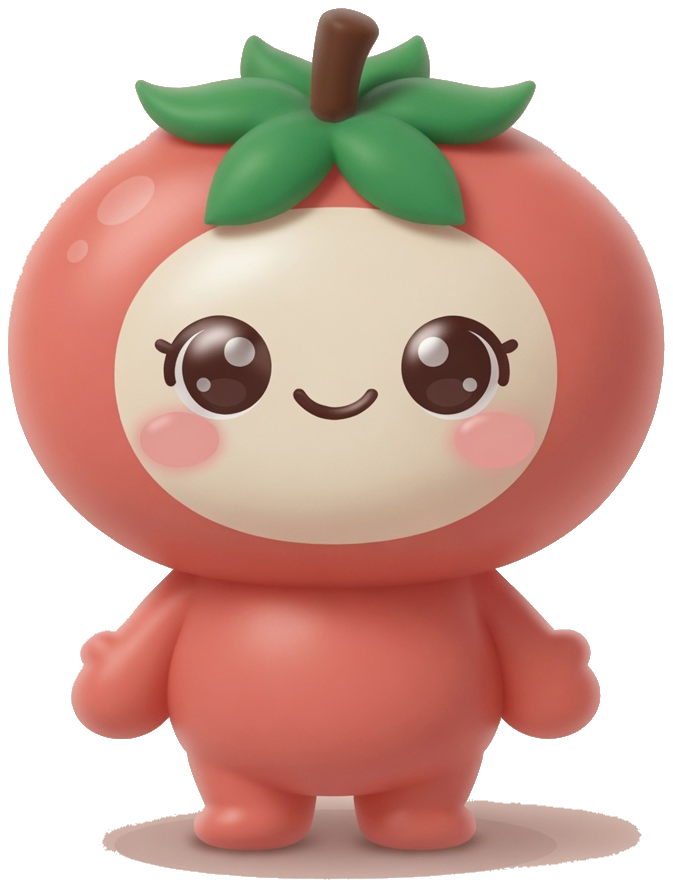
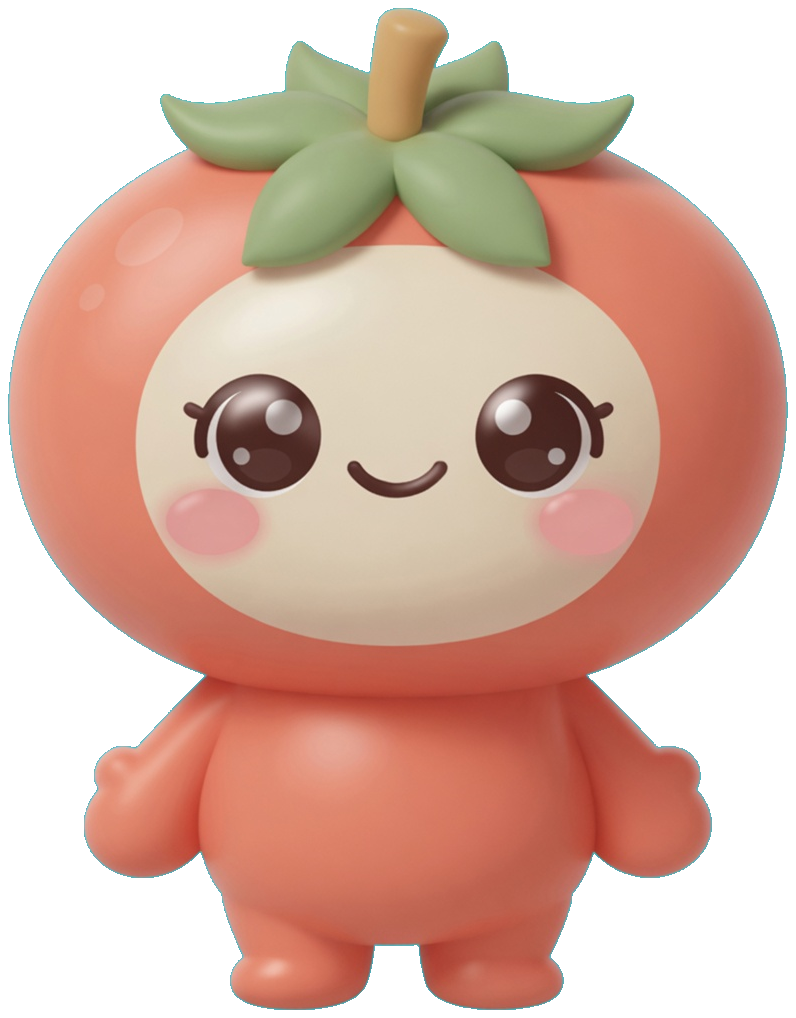
Warm the practice page and recolor O-ma-oo in pastel.

diff --git a/index.html b/index.html
@@ -615,7 +615,7 @@
     --well: #fff; --soon-bg: var(--gp); --dot: var(--gs); --dot-done: var(--coral);
     --shadow: 0 12px 30px rgba(74, 74, 82, 0.08);
   }
-  body { background: #fbf3ea; overflow: hidden; }
+  body { background: #f4e3d4; overflow: hidden; }
   .wrap { width: auto; max-width: none; margin: 0; padding: 0; }
   .bk-1 { --bk: #f6cfc5; --bkd: #e58a74; } .bk-2 { --bk: #dedce1; --bkd: #9a98a2; } .bk-3 { --bk: #fbe0d8; --bkd: #eba08c; }
   .bk-4 { --bk: #ebe9ed; --bkd: #b0aeb7; } .bk-5 { --bk: #f3bfb2; --bkd: #d9755d; } .bk-6 { --bk: #d3d1d7; --bkd: #8d8b94; }
@@ -679,7 +679,8 @@
   .fit .sheet .well { min-height: 58px; }
   .fit .sheet .answer-input { font-size: 1.1rem; min-height: 52px; }
   .fit .sheet .btn { min-height: 46px; }
-  .fit .vchips { position: absolute; left: 10px; right: 10px; bottom: calc(100% + 6px); margin: 0; background: #fff; border-radius: 22px; padding: 10px; box-shadow: 0 10px 30px rgba(74, 74, 82, 0.2); z-index: 5; max-height: 40vh; overflow: auto; }
+  .fit .vwrap { display: contents; }
+  .fit .vchips { position: static; flex: 1 1 100%; width: 100%; margin: 8px 0 0; background: #fff; border-radius: 22px; padding: 12px 14px; box-shadow: 0 8px 22px rgba(74, 74, 82, 0.08); max-height: none; overflow: visible; }
   .fit .tabbar { flex: none; margin-top: 4px; padding-top: 2px; }
   .fit .center-col { flex: 1 1 0; min-height: 0; overflow-y: auto; display: flex; flex-direction: column; justify-content: flex-start; max-width: none; width: 100%; padding: 0; }
   .fit .center-col > .card:not(.test-card) { background: transparent; border: 0; box-shadow: none; width: 100%; max-width: none; margin: 0; padding: 4px 2px 12px; }
@@ -730,6 +731,7 @@
     .fit .center-col { grid-column: 1 / -1; grid-row: 2 / 4; }
     .fit .sheet > .qline, .fit .sheet > .chips, .fit .sheet > .well, .fit .sheet > .bank, .fit .sheet > .fb, .fit .sheet > .hint-box { flex: 1 1 100%; }
     .fit .sheet > .answer-input { flex: 1 1 360px; font-size: 1.35rem; min-height: 64px; }
+    .fit .sheet > .answer-input.good { flex: 1 1 100%; }
     .fit .sheet > .btn-row { flex: 0 0 auto; }
     .fit .sheet .btn-row .btn { flex: none; width: auto; padding: 0 28px; min-height: 56px; }
     .fit .sheet > #feedback { flex: 0 0 auto; }
@@ -755,14 +757,94 @@
     .fit { --charH: clamp(160px, 30dvh, 260px); padding: 12px 22px 10px; }
     .fit .say { font-size: 1.55rem; }
   }
-  .phone.fit:not(.landing):not(.topics) { background: transparent; box-shadow: none; border-radius: 0; }
+  .phone.fit { background: #fff8f3; box-shadow: 0 18px 40px rgba(140, 96, 70, 0.1); }
   .phone.fit:not(.landing) .sheet { background: transparent; border-radius: 0; box-shadow: none; }
+  .fit.landing .sheet { background: transparent; }
+  .btn:not(.btn-ghost), .sheet .btn, .fit .test-card .btn { background: var(--coral); color: #fff; box-shadow: 0 4px 0 #c45a42; }
+  .btn:not(.btn-ghost):hover, .sheet .btn:hover { background: #d97862; }
+  .tile { background: #fff; box-shadow: var(--shadow); border-radius: 28px; }
+  .ticon { background: var(--bk); }
+  .tile-test { background: var(--coral-soft); }
+  .tmeta { color: var(--gm); font-weight: 600; opacity: 1; }
+  .fit:not(.landing) .say { font-weight: 600; color: var(--gm); }
+  .fit.landing .say.big { font-size: clamp(1.35rem, 5vw, 1.8rem); font-weight: 700; color: #5c4338; }
+  .fit.landing { justify-content: center; }
+  .fit.landing .stage { flex: 0 1 auto; display: flex; flex-direction: column; align-items: center; justify-content: center; }
+  .fit .qline .ask, .fit .qbig .ask { font-size: 1.45rem; font-weight: 800; color: var(--gk); line-height: 1.25; }
+  .fit:not(.landing) .say { font-size: 1rem; }
+  .fit .qline .vi, .fit .qbig .vi { color: var(--gm); font-weight: 500; }
+  .fit .sheet .qline { justify-content: flex-start; text-align: left; }
   .phone.fit:not(.landing) .sheet .qline { background: transparent; border-radius: 0; padding: 0 0 2px; }
   .fit .qrow, .fit .qrow.done { background: transparent; border: 0; border-bottom: 1px solid var(--gs); border-radius: 0; box-shadow: none; }
   .fit .qrow:hover { background: rgba(255, 255, 255, 0.5); }
   .fit .qlist .qrow:last-child { border-bottom: 0; }
   .fit .test-card { background: transparent; border-radius: 0; padding: 4px 0 0; }
   .fit .qbig { background: transparent; border-radius: 0; padding: 4px 0 14px; margin-bottom: 0; }
+  .fit .chips, .fit .bank, .fit .well { flex-wrap: nowrap; overflow-x: auto; justify-content: flex-start; }
+  .fit .chip-wrap { flex: 0 0 auto; max-width: none; align-items: flex-start; }
+  .fit .chip, .fit .word { flex: 0 0 auto; white-space: nowrap; }
+  .fit .chip { border-radius: 999px; }
+  .fit .chip.fixed { background: #ececee; color: #3a3a42; }
+  .fit .chip.blank { background: #fde8df; color: #b4503a; border: 0; }
+  .sheet .btn[data-action="check-write"] { background: var(--coral); color: #fff; box-shadow: 0 4px 0 #c45a42; }
+  @media (min-width: 900px) {
+    .fit:not(.landing):has(.stage) { height: auto; max-height: calc(100dvh - 48px); top: 50%; transform: translate(-50%, -50%); overflow: auto; grid-template-rows: auto auto auto; align-content: start; row-gap: 16px; padding: 20px 32px 24px; --charH: 200px; }
+    .fit:not(.landing) .stage { display: contents; }
+    .fit:not(.landing) .stage .speech { grid-column: 1 / 5; grid-row: 2; max-width: none; align-self: end; padding: 0 28px 0 0; }
+    .fit:not(.landing) .stage .char { grid-column: 5; grid-row: 2 / 4; height: 240px; align-self: center; justify-self: end; }
+    .fit:not(.landing) .sheet { grid-column: 1 / 5; grid-row: 3; max-width: none; justify-self: stretch; align-self: start; padding: 0 28px 0 0; gap: 12px; }
+    .fit:not(.landing):has(.stage) .sheet > .btn-row:only-child,
+    .fit:not(.landing):has(.stage) .sheet.step-2 > .btn-row { justify-content: flex-start; }
+    .fit .say { font-size: 1.05rem; font-weight: 600; color: var(--gm); margin-top: 0; }
+    .fit .stage .qline .ask, .fit .sheet .qline .ask, .fit .qbig .ask { font-size: 2.15rem; line-height: 1.25; }
+    .fit .qline .vi, .fit .qbig .vi { font-size: 0.95rem; }
+    .fit .stage .ex-en { font-size: 1.35rem; }
+    .fit.landing { display: flex; flex-direction: column; align-items: center; justify-content: center; --charH: 220px; }
+    .fit.landing .stage { display: flex; flex-direction: column; align-items: center; flex: 0 0 auto; width: min(640px, 100%); min-height: 0; }
+    .fit.landing .stage .speech { padding: 0; text-align: center; }
+    .fit.landing .stage .char { height: 220px; align-self: center; }
+    .fit.landing .sheet { width: min(640px, 100%); }
+    .fit.landing .say.big { font-size: 2rem; font-weight: 700; color: #5c4338; }
+    .ttitle { font-size: 1.35rem; }
+    .tmeta { font-size: 0.8rem; }
+  }
+  .phone.fit.topics { background: #fff7f3; }
+  .topics .tile { min-height: 112px; box-shadow: 0 8px 18px rgba(120, 90, 78, 0.07); }
+  .topics .tile.tone-peach { background: #fde8df; }
+  .topics .tile.tone-pink { background: #f8e4ea; }
+  .topics .tile.tone-gray { background: #f1eeea; }
+  .topics .tile-main { padding: 14px 16px 16px; }
+  .topics .tile-main:hover { transform: none; }
+  .topics .tile:hover { transform: translateY(-2px); }
+  .topics .ticon { width: 40px; height: 40px; border-radius: 50%; background: rgba(255, 255, 255, 0.82); }
+  .topics .ticon svg { width: 26px; height: 26px; }
+  .topics .ttitle { color: #3a3538; font-weight: 800; padding-right: 8px; }
+  .topics .tmeta { top: 16px; right: 52px; color: #8a7f86; font-weight: 700; }
+  .topics .tile-test { top: 10px; right: 10px; bottom: auto; background: rgba(255, 255, 255, 0.9); }
+  .fit:not(.landing):has(.stage) { background: #fff8f3; box-shadow: 0 18px 40px rgba(140, 96, 70, 0.12); }
+  .fit:not(.landing):has(.stage) .say { display: flex; align-items: center; gap: 10px; color: #8d756c; font-weight: 600; }
+  .fit:not(.landing):has(.stage) .say::before { content: ""; width: 10px; height: 10px; border-radius: 50%; background: var(--coral); flex: none; }
+  .fit:not(.landing):has(.stage) .qline { flex-direction: column; align-items: flex-start; gap: 4px; }
+  .fit:not(.landing):has(.stage) .ask,
+  .fit:not(.landing):has(.stage) .ex-en { color: #5c4338; }
+  .fit:not(.landing):has(.stage) .vi { color: #b6a096; }
+  .fit:not(.landing):has(.stage) .chip.fixed { background: #f6e4d6; color: #6a5148; }
+  .fit:not(.landing):has(.stage) .chip.blank { background: #fff; color: #c46b56; box-shadow: inset 0 0 0 1.5px #f3c7b8; }
+  .fit:not(.landing):has(.stage) .answer-input { background: #fff; border: 1.5px solid #f0d0c4; color: #5c4338; }
+  .fit:not(.landing):has(.stage) .well { background: rgba(255, 255, 255, 0.7); border-color: #f0c2b4; }
+  .fit:not(.landing):has(.stage) .vtoggle { flex: 1 1 100%; justify-content: flex-start; text-align: left; color: var(--coral-ink); font-weight: 700; background: transparent; padding: 2px 0 0; }
+  .fit:not(.landing):has(.stage) .steps .st { background: #f6ebe4; color: #8a736a; }
+  .fit:not(.landing):has(.stage) .steps .st.now { background: var(--coral); color: #fff; box-shadow: none; }
+  .fit:not(.landing):has(.stage) .steps .st.done { background: #f3ddd4; color: #b4503a; }
+  .fit:not(.landing):has(.stage) .qnums { background: #f6ebe4; border-color: transparent; }
+  .fit:not(.landing):has(.stage) .qn.now { background: var(--coral); color: #fff; box-shadow: none; }
+  .fit:not(.landing):has(.stage) .btn-ghost { background: #fff8f3; border-color: #f0ddd4; color: #8a736a; }
+  .fit:not(.landing):has(.stage) .tab { background: #fff; color: #8a736a; }
+  .fit:not(.landing):has(.stage) .tab.on { background: #fde8df; color: var(--coral-ink); }
+  @media (min-width: 900px) {
+    .fit:not(.landing):has(.stage) .ask { font-size: 2.55rem; }
+    .fit:not(.landing):has(.stage) .ex-en { font-size: 1.55rem; color: #5c4338; }
+  }
 </style>
 </head>
 <body>
@@ -2202,19 +2284,8 @@ function dotsHtml(lesson, index) {
   return html + "</div>";
 }
 
-var TOPIC_ICONS = {
-  1: '<svg viewBox="0 0 32 32" fill="none" stroke="#3a3a42" stroke-width="1.8" stroke-linecap="round" stroke-linejoin="round" aria-hidden="true"><rect x="6" y="7" width="20" height="18" rx="4" fill="#fff"/><circle cx="12.5" cy="14" r="2.6" fill="#e58a74"/><path d="M9.5 21c.6-2 2.2-3 3-3s2.4 1 3 3"/><path d="M18.5 13.5h4M18.5 17h4"/></svg>',
-  2: '<svg viewBox="0 0 32 32" fill="none" stroke="#3a3a42" stroke-width="1.8" stroke-linecap="round" stroke-linejoin="round" aria-hidden="true"><path d="M5 15.5L16 6l11 9.5"/><path d="M8 13.5V26h16V13.5" fill="#fff"/><rect x="13.5" y="18" width="5" height="8" rx="1" fill="#e58a74"/></svg>',
-  3: '<svg viewBox="0 0 32 32" fill="none" stroke="#3a3a42" stroke-width="1.8" stroke-linecap="round" stroke-linejoin="round" aria-hidden="true"><circle cx="12" cy="11" r="3.4" fill="#fff"/><path d="M5.5 24c.4-4.2 3-6.4 6.5-6.4s6.1 2.2 6.5 6.4z" fill="#fff"/><circle cx="22.5" cy="15" r="2.6" fill="#e58a74"/><path d="M18.5 24c.3-3.2 2-4.9 4-4.9s3.7 1.7 4 4.9z" fill="#e58a74"/></svg>',
-  4: '<svg viewBox="0 0 32 32" fill="none" stroke="#3a3a42" stroke-width="1.8" stroke-linecap="round" stroke-linejoin="round" aria-hidden="true"><path d="M16 26s-8.2-5-10.6-9C3.2 13.2 4.4 9 8.2 8.2c2.5-.5 4.8.8 6 2.6 1.2-1.8 3.5-3.1 6-2.6 3.8.8 5 5 2.8 8.8C24.2 21 16 26 16 26z" fill="#e58a74"/></svg>',
-  5: '<svg viewBox="0 0 32 32" fill="none" stroke="#3a3a42" stroke-width="1.8" stroke-linecap="round" stroke-linejoin="round" aria-hidden="true"><circle cx="16" cy="16" r="5" fill="#e58a74"/><path d="M16 5v3M16 24v3M5 16h3M24 16h3M8.2 8.2l2.1 2.1M21.7 21.7l2.1 2.1M23.8 8.2l-2.1 2.1M10.3 21.7l-2.1 2.1"/></svg>',
-  6: '<svg viewBox="0 0 32 32" fill="none" stroke="#3a3a42" stroke-width="1.8" stroke-linecap="round" stroke-linejoin="round" aria-hidden="true"><circle cx="16" cy="16" r="10" fill="#fff"/><path d="M16 9v8l5 3" stroke="#e58a74"/></svg>',
-  7: '<svg viewBox="0 0 32 32" fill="none" stroke="#3a3a42" stroke-width="1.8" stroke-linecap="round" stroke-linejoin="round" aria-hidden="true"><path d="M5 18h22v5H5z" fill="#fff"/><path d="M8 18v-3a3 3 0 013-3h6v6" fill="#e58a74"/><path d="M7 23v3M25 23v3"/></svg>',
-  8: '<svg viewBox="0 0 32 32" fill="none" stroke="#3a3a42" stroke-width="1.8" stroke-linecap="round" stroke-linejoin="round" aria-hidden="true"><path d="M16 5l2.6 6.2L25 12l-5 4.4L21.4 23 16 19.8 10.6 23 12 16.4 7 12l6.4-.8z" fill="#e58a74"/></svg>',
-  9: '<svg viewBox="0 0 32 32" fill="none" stroke="#3a3a42" stroke-width="1.8" stroke-linecap="round" stroke-linejoin="round" aria-hidden="true"><rect x="6" y="8" width="20" height="18" rx="4" fill="#fff"/><path d="M6 14h20M12 5v5M20 5v5"/><path d="M12 20l3 3 5-6" stroke="#e58a74" stroke-width="2.2"/></svg>',
-  10: '<svg viewBox="0 0 32 32" fill="none" stroke="#3a3a42" stroke-width="1.8" stroke-linecap="round" stroke-linejoin="round" aria-hidden="true"><path d="M6 22h20"/><path d="M8 22a8 8 0 0116 0" fill="#e58a74"/><path d="M16 6v4M8.5 11l2.2 2.2M23.5 11l-2.2 2.2"/></svg>'
-};
 var CHAR_SVG = '<img class="char" src="char.png" alt="" aria-hidden="true">';
+var TOMATO_ICON = '<svg viewBox="0 0 32 32" aria-hidden="true"><path d="M16.2 7.2c.3-2.2 1.6-3.4 3-3.6" fill="none" stroke="#d7b48a" stroke-width="1.7" stroke-linecap="round"/><path d="M15.6 8.4c-2.6-2.2-5.6-1-6.4 1.2 2 .1 3.6 1.3 4.6 2.8.8-1.8 2.4-3 4.6-3.2-1-.6-2-1-2.8-.8z" fill="#c5ddb2"/><path d="M18.2 8.2c2.4-.6 4.8.6 5.2 2.6-2.2.4-3.8 1.6-4.8 3.2-1-1.8-2.2-3-4.2-3.6 1.2-1 2.4-1.8 3.8-2.2z" fill="#d5e8c4"/><ellipse cx="16" cy="19.2" rx="9.2" ry="8.2" fill="#f3b7a2"/><ellipse cx="12.4" cy="16.4" rx="2.3" ry="1.4" fill="#fff" opacity=".7"/></svg>';
 var ICON_BOOK = '<svg viewBox="0 0 24 24" fill="none" stroke="currentColor" stroke-width="2" stroke-linecap="round" stroke-linejoin="round" aria-hidden="true"><path d="M5 4h10a3 3 0 0 1 3 3v13H8a3 3 0 0 1-3-3z"/><path d="M5 17a3 3 0 0 1 3-3h10"/></svg>';
 var ICON_CARD = '<svg viewBox="0 0 24 24" fill="none" stroke="currentColor" stroke-width="2" stroke-linecap="round" stroke-linejoin="round" aria-hidden="true"><rect x="4" y="5" width="16" height="14" rx="3"/><path d="M8 10h8M8 14h5"/></svg>';
 
@@ -2226,12 +2297,13 @@ function renderHome() {
 }
 
 function renderTopics() {
+  var tones = ["tone-peach", "tone-pink", "tone-gray"];
   var html = '<div class="phone fit topics"><div class="topbar slim"><button type="button" class="btn btn-ghost back" data-action="welcome" aria-label="Về trang đầu">←</button>';
   html += '<span class="crumb">Chọn chủ đề</span></div><div class="tgrid">';
   for (var i = 0; i < LESSONS.length; i++) {
     var lesson = LESSONS[i];
-    html += '<div class="tile ' + bookClass(lesson) + '"><button type="button" class="tile-main" data-action="learn" data-lesson="' + lesson.id + '">';
-    html += '<span class="ticon">' + (TOPIC_ICONS[lesson.id] || "") + "</span>";
+    html += '<div class="tile ' + bookClass(lesson) + " " + tones[i % 3] + '"><button type="button" class="tile-main" data-action="learn" data-lesson="' + lesson.id + '">';
+    html += '<span class="ticon">' + TOMATO_ICON + "</span>";
     html += '<span class="ttitle">' + esc(lesson.title) + "</span></button>";
     html += '<span class="tmeta">' + masteredCount(lesson) + "/" + lesson.questions.length + "</span>";
     html += '<button type="button" class="tile-test" data-action="test" data-lesson="' + lesson.id + '" aria-label="Test ' + esc(lesson.title) + '">' + ICON_CARD + "</button></div>";
@@ -2315,7 +2387,7 @@ function renderStep3(q) {
   html += chipsHtml(q.formula, false);
   html += '<label for="answer-input" class="sr-only">Viết câu của bạn</label>';
   html += '<input id="answer-input" class="answer-input' + (state.writeOk ? " good" : "") + '" type="text" autocomplete="off" autocorrect="off" autocapitalize="sentences" spellcheck="false" enterkeyhint="done" placeholder="Viết cả câu ở đây..." value="' + esc(state.draft) + '"' + (state.writeOk ? " disabled" : "") + ">";
-  html += '<div class="btn-row"><button type="button" class="btn" data-action="check-write"' + (state.writeOk ? " disabled" : "") + ">Kiểm tra</button></div>";
+  if (!state.writeOk) html += '<div class="btn-row"><button type="button" class="btn" data-action="check-write">Kiểm tra</button></div>';
   html += '<div id="feedback">';
   if (state.writeOk) {
     var nextLabel = state.single ? "Quay lại test →" : (state.qIndex === currentLesson().questions.length - 1 ? "Về danh sách →" : "Câu tiếp theo →");
@@ -2334,7 +2406,7 @@ function renderLearn() {
   if (state.step === 1) {
     speech = questionLine(q) + chipsHtml(q.formula, false) + '<div class="example"><p class="ex-en" lang="en">' + esc(q.example) + "</p></div>";
   } else if (state.step === 2) {
-    speech = (state.ghepChecked && !state.ghepOk) ? '<div class="say-fb"><p>Chưa đúng thứ tự. Bấm vào từ trong ô để gỡ ra rồi thử lại.</p></div>' : '<p class="say">Hãy ghép câu của bạn.</p>';
+    speech = ((state.ghepChecked && !state.ghepOk) ? '<div class="say-fb"><p>Chưa đúng thứ tự. Bấm vào từ trong ô để gỡ ra rồi thử lại.</p></div>' : '<p class="say">Hãy ghép câu của bạn.</p>') + chipsHtml(q.formula, false);
   } else if (!state.writeOk && state.writeMsg) {
     speech = '<div class="say-fb"><p>' + formatMsg(state.writeMsg) + "</p><p>Không sao, sửa lại và bấm Kiểm tra lần nữa nhé.</p></div>";
   } else {
